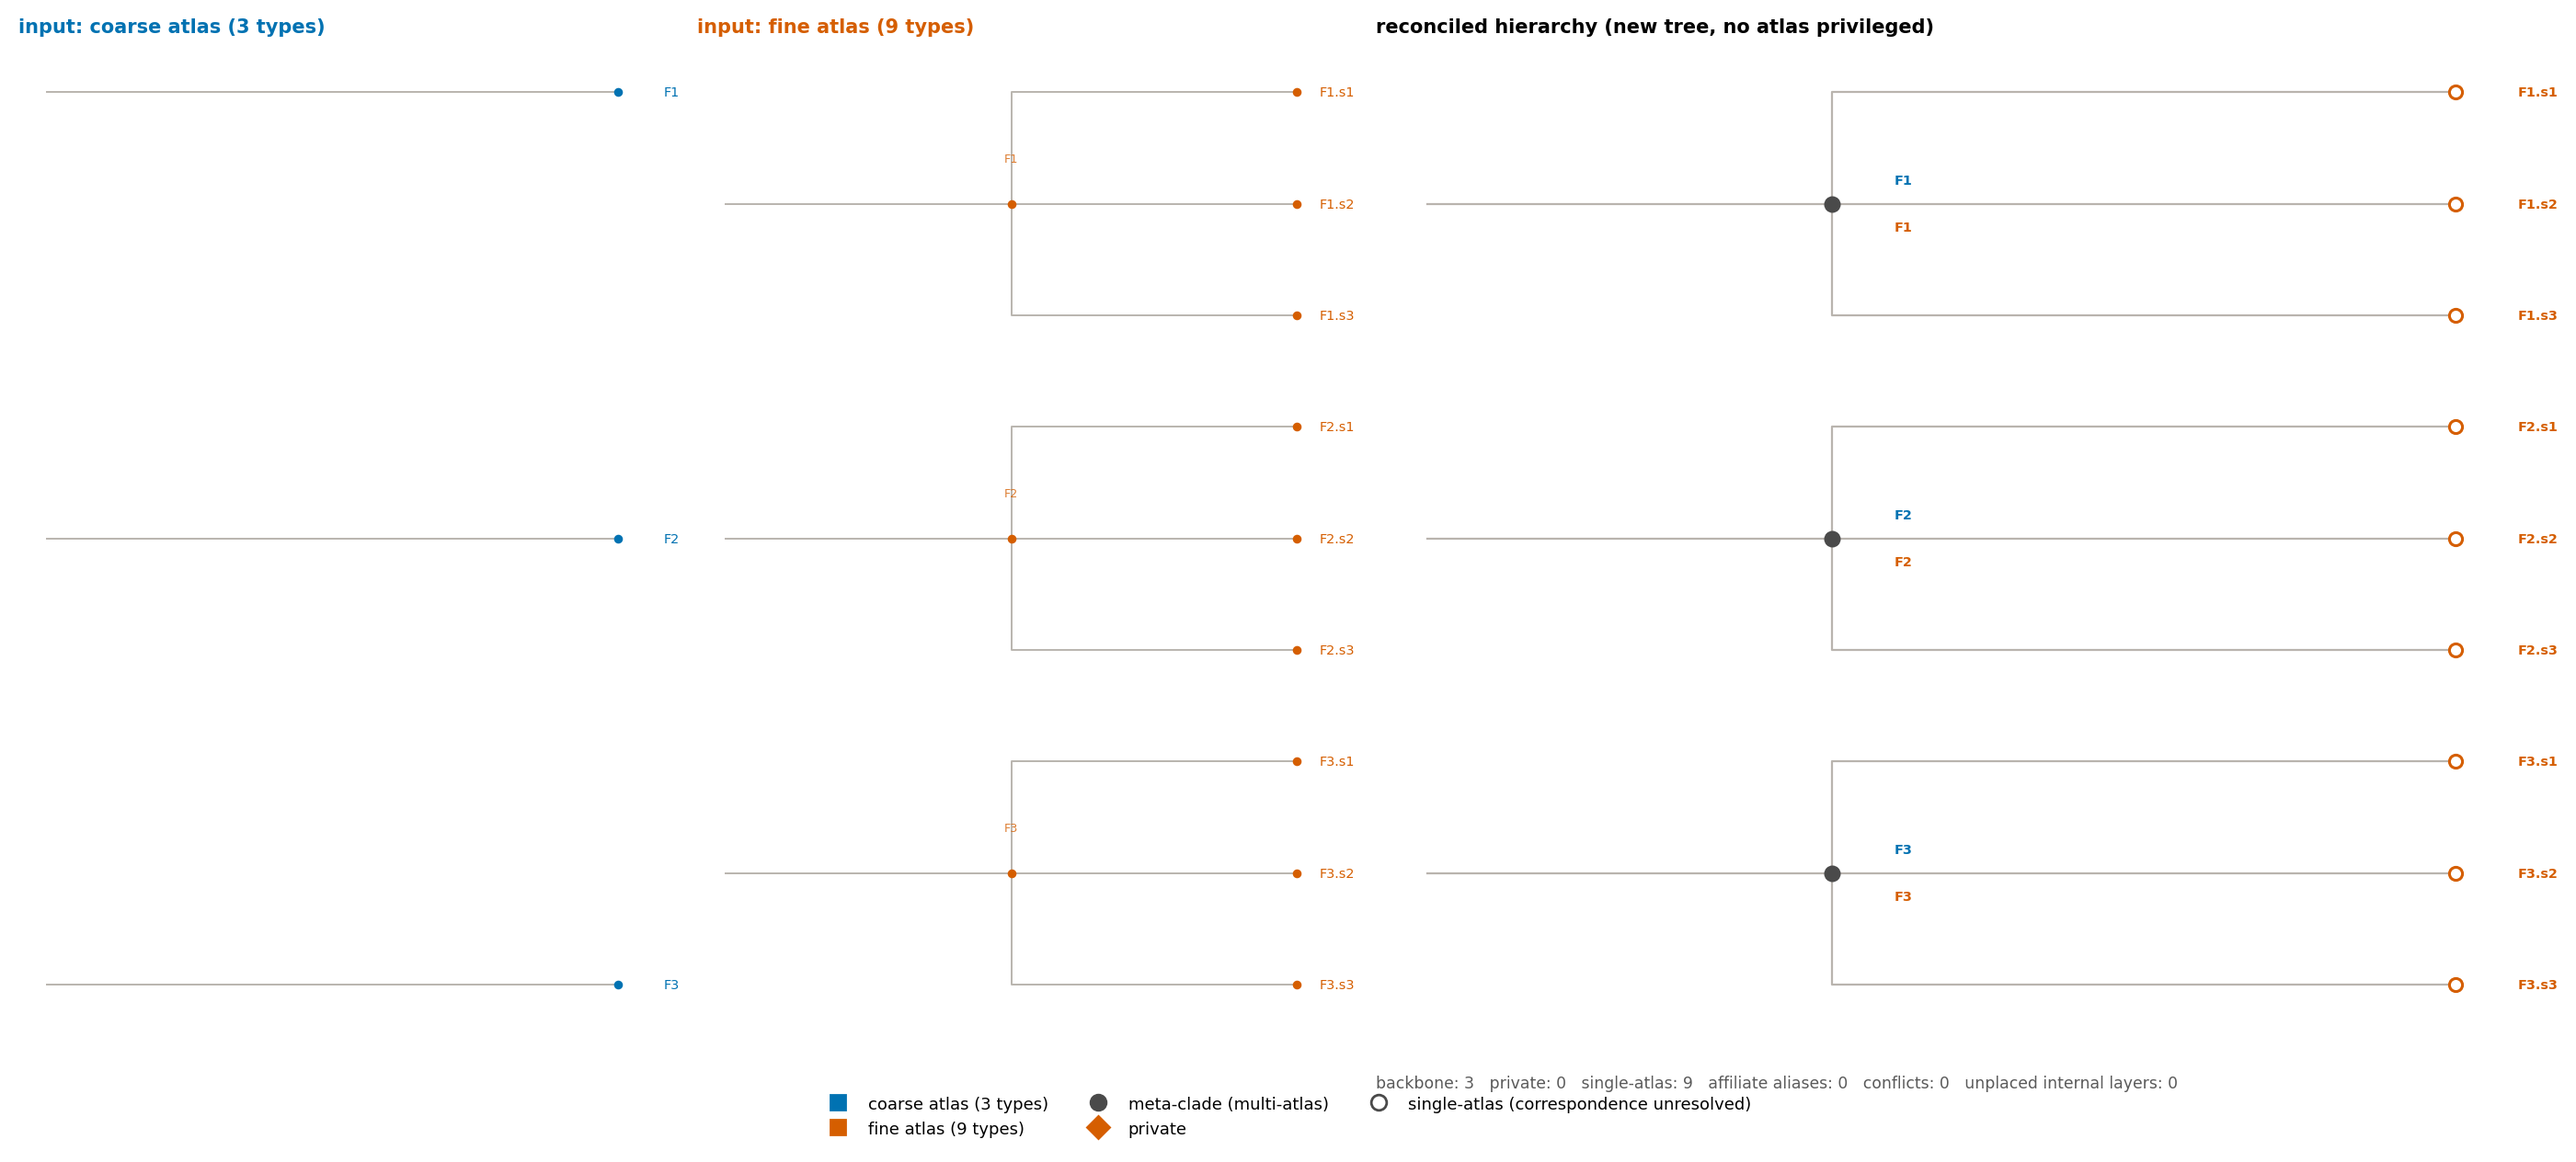
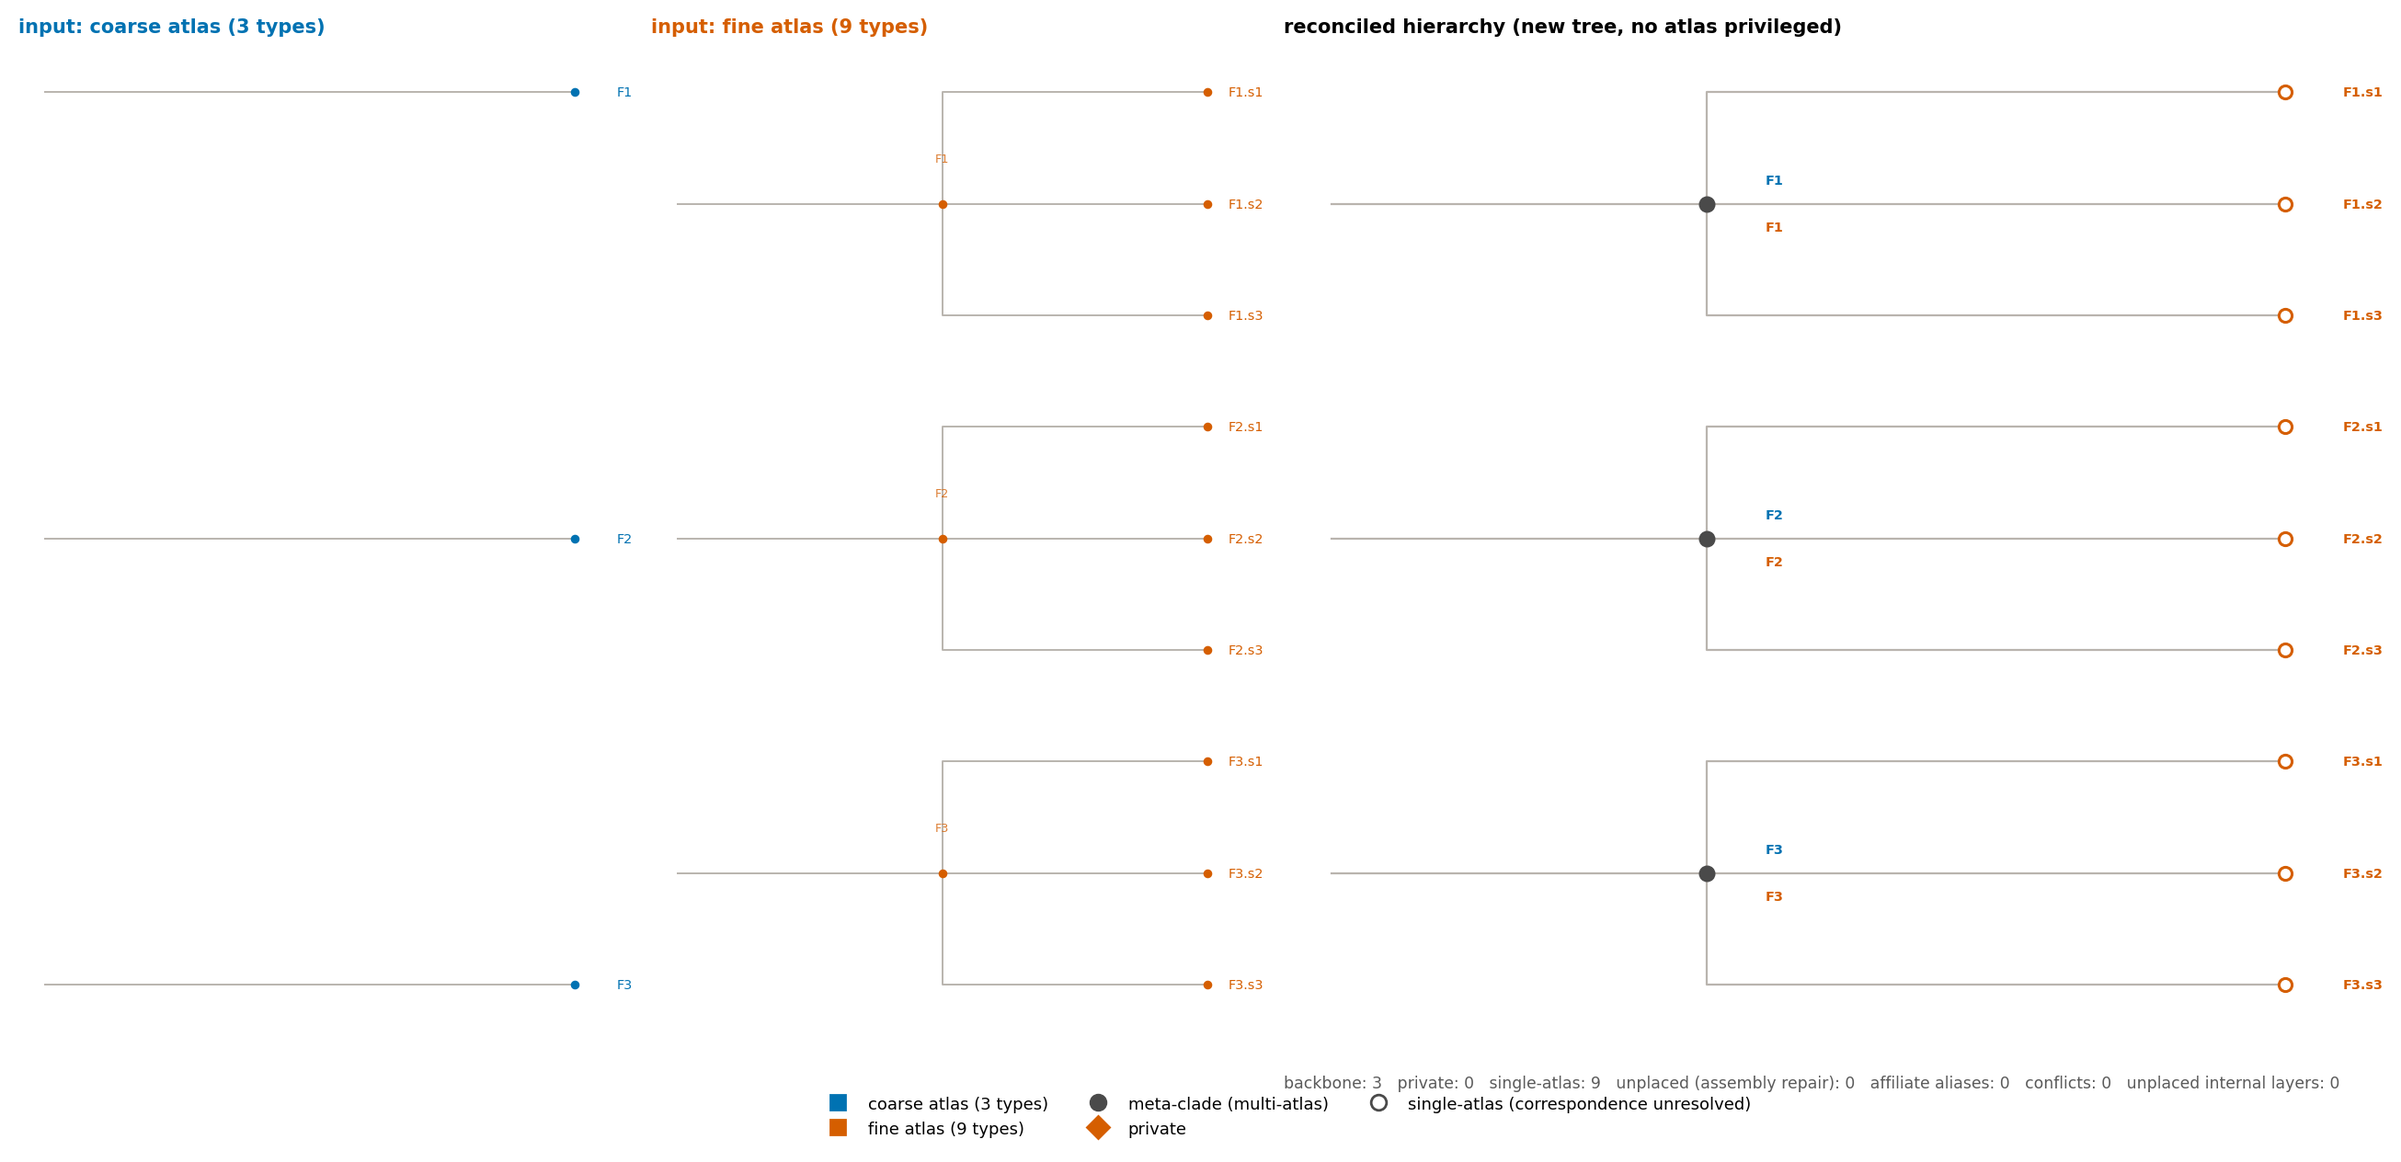
0.5.0: rejection routes the claim, never its labels (root-cause fix)
Root cause of the 13 missing amygdala labels (13/13 confirmed in
rejected candidates): greedy_backbone's rejected list was terminal for
the LABELS, not just the claims — members of candidates rejected as
insufficient_support / no_support / ancestry_incompatible re-entered
nothing and silently exited the pipeline.

route_rejected() in harmonize(): unrepresented members of rejected
candidates fall back to their own atlas as unplaced_single_atlas nodes
carrying the rejection reason verbatim plus candidate id as provenance
(ancestry_incompatible remains conflict evidence via the backbone's
conflict list; neither category is ever relabeled private); members
represented elsewhere are skipped (no duplicate placement); rejected
consolidated subtrees keep their original within-atlas topology.
repair_completeness stays as the permanent final tripwire and must now
report zero — a nonzero count is an undiagnosed loss pathway (runner
prints a loud warning).

Gates: 58 test executions green (incl. new routing tests: reason
provenance, duplicate prevention, subtree topology, tripwire-zero);
four-case visual gates 4/4; Allen truth case reproduces 73/25/4/1/0
exactly with 2 previously-dropped labels now surfaced as unplaced
(outside the scored set — the pathway existed in Allen too). Runner
emits rejected.json + per-label TRACE lines + rejection_reason in
provenance.csv.

diff --git a/pkgs/python/src/metaarbor/consensus/harmonize.py b/pkgs/python/src/metaarbor/consensus/harmonize.py
@@ -24,6 +24,75 @@ from .backbone import FROZEN, greedy_backbone
 from .candidates import candidate_groups, canonical_nodes, pairwise_decisions
 
 
+def route_rejected(nodes, trees, rejected, affiliates):
+    """Rejection routes the CLAIM, never its constituent labels.
+
+    A rejected candidate is a failed cross-atlas (or private) claim.
+    Its member labels fall back to their own atlases as explicit
+    `unplaced_single_atlas` nodes that carry the rejection reason
+    verbatim (`insufficient_support` / `no_support` /
+    `ancestry_incompatible`) and the candidate id as provenance —
+    `ancestry_incompatible` is additionally conflict evidence, already
+    recorded by the backbone in its conflict list. Neither category is
+    ever relabeled private. A member already represented elsewhere
+    (another accepted or unknown candidate, an expansion, an affiliate
+    alias) is skipped — no duplicate placement. A rejected consolidated
+    subtree surfaces with its original within-atlas topology preserved.
+
+    Returns the list of fallback placements performed.
+    """
+    from metaarbor.branch_fit import _collapse_chains
+    member_to_id = {}
+    for mid, nd in nodes.items():
+        for ds, m in nd["members"].items():
+            member_to_id.setdefault((ds, m), mid)
+    aff = {(a["dataset"], a["node"]) for a in affiliates}
+    routed, ucount = [], 0
+    for rej in rejected:
+        c = rej["candidate"]
+        reason = rej["reason"]
+        for ds, node in sorted(c["members"].items()):
+            if (ds, node) in member_to_id or (ds, node) in aff:
+                continue                  # represented elsewhere
+            rp, _ = _collapse_chains(trees[ds])
+            p, parent_id = rp.get(node), None
+            while p not in (None, "root"):
+                if (ds, p) in member_to_id:
+                    parent_id = member_to_id[(ds, p)]
+                    break
+                p = rp.get(p)
+            ucount += 1
+            uid = f"MA-X{ucount:04d}"
+            rec = {"reason": reason, "candidate_id": c["candidate_id"]}
+            sub = c.get("provenance", {}).get("subtree_nodes") or []
+            sub_un = sorted(x for x in set(sub) - {node}
+                            if (ds, x) not in member_to_id and
+                            (ds, x) not in aff)
+            idmap = {node: uid}
+            for k, x in enumerate(sub_un, 1):
+                idmap[x] = f"{uid}.{k:02d}"
+            for x, xid in idmap.items():
+                if x == node:
+                    px = parent_id
+                else:
+                    p2 = rp.get(x)
+                    while p2 not in (None, "root") and p2 not in idmap:
+                        p2 = rp.get(p2)
+                    px = idmap.get(p2, uid)
+                nodes[xid] = {"parent": px,
+                              "status": "unplaced_single_atlas",
+                              "members": {ds: x}, "aliases": [x],
+                              "display": _display([x]),
+                              "support": (0, 0), "subtree_parent": None,
+                              "rejection": dict(rec),
+                              **({"expanded": True} if x != node else {})}
+                member_to_id[(ds, x)] = xid
+                routed.append({"dataset": ds, "label": x,
+                               "node_id": xid, "reason": reason,
+                               "candidate_id": c["candidate_id"]})
+    return routed
+
+
 def repair_completeness(nodes, trees, affiliates):
     """COMPLETENESS INVARIANT (core contract, not a display repair):
     every input-tree leaf must occur in the assembly as a member, a
@@ -190,6 +259,10 @@ def harmonize(datasets, trees, n_hvg=1000, n_boot=200, base_seed=211,
             if uid:
                 expand(uid[0], ds, root_node, sub)
 
+    routed = route_rejected(nodes, trees, bb["rejected"],
+                            bb["affiliates"])
+    # final tripwire: after rejection routing this must find NOTHING;
+    # a nonzero repair count means a new, undiagnosed loss pathway
     repairs = repair_completeness(nodes, trees, bb["affiliates"])
 
     children = {i: [] for i in nodes}
@@ -206,7 +279,7 @@ def harmonize(datasets, trees, n_hvg=1000, n_boot=200, base_seed=211,
         nd["children"] = children[i]
 
     return {"tree": nodes, "roots": sorted(roots),
-            "repairs": repairs,
+            "rejection_fallbacks": routed, "repairs": repairs,
             "decisions": dec, "candidates": cands, "backbone": bb,
             "conflicts": bb["conflicts"], "affiliates": bb["affiliates"],
             # internal nodes whose descendants matched but which

diff --git a/pkgs/python/tests/test_harmonize.py b/pkgs/python/tests/test_harmonize.py
@@ -166,3 +166,87 @@ def test_repair_reinstates_lost_label_with_input_parentage(private_world):
         p = rp.get(p)
     else:
         assert nd["parent"] is None
+
+
+def _reject(members, reason, cid="cand:9999", sub=None):
+    c = {"members": members, "candidate_id": cid,
+         "provenance": ({"subtree_nodes": sub} if sub else {})}
+    return {"candidate": c, "reason": reason, "support": (0, 2)}
+
+
+def test_rejection_routes_labels_not_claims(private_world):
+    """A rejected claim's unrepresented members surface as
+    unplaced_single_atlas with the reason verbatim, under their own
+    atlas's nearest represented ancestor — never as private."""
+    import copy
+    from metaarbor.consensus.harmonize import (repair_completeness,
+                                               route_rejected)
+    harm, trees = private_world
+    nodes = copy.deepcopy(
+        {i: {k: v for k, v in nd.items() if k != "children"}
+         for i, nd in harm["tree"].items()})
+    # simulate the loss: delete the F2.s2 meta-clade and pretend the
+    # claim was rejected for insufficient support
+    doomed = [i for i, nd in nodes.items()
+              if nd["members"].get("B") == "B|F2.s2"]
+    for i in doomed:
+        for c in [j for j, nd in nodes.items() if nd["parent"] == i]:
+            nodes[c]["parent"] = nodes[i]["parent"]
+        del nodes[i]
+    rej = [_reject({"A": "A|F2.s2", "B": "B|F2.s2"},
+                   "insufficient_support")]
+    routed = route_rejected(nodes, trees, rej, harm["affiliates"])
+    assert sorted(r["label"] for r in routed) == ["A|F2.s2", "B|F2.s2"]
+    for r in routed:
+        nd = nodes[r["node_id"]]
+        assert nd["status"] == "unplaced_single_atlas"   # never private
+        assert nd["rejection"]["reason"] == "insufficient_support"
+        assert nd["rejection"]["candidate_id"] == "cand:9999"
+        assert nd["support"] == (0, 0)
+    # tripwire now finds NOTHING: the source fix precedes it
+    assert repair_completeness(nodes, trees, harm["affiliates"]) == []
+
+
+def test_rejection_no_duplicate_when_represented_elsewhere(private_world):
+    import copy
+    from metaarbor.consensus.harmonize import route_rejected
+    harm, trees = private_world
+    nodes = copy.deepcopy(
+        {i: {k: v for k, v in nd.items() if k != "children"}
+         for i, nd in harm["tree"].items()})
+    n0 = len(nodes)
+    # both members still represented by the accepted assembly: routing
+    # a rejected duplicate claim must place nothing
+    rej = [_reject({"A": "A|F1.s1", "B": "B|F1.s1"},
+                   "ancestry_incompatible")]
+    routed = route_rejected(nodes, trees, rej, harm["affiliates"])
+    assert routed == [] and len(nodes) == n0
+
+
+def test_rejected_subtree_preserves_topology(private_world):
+    """A rejected consolidated subtree (singleton no_support) surfaces
+    with its original within-atlas topology beneath the fallback."""
+    import copy
+    from metaarbor.consensus.harmonize import route_rejected
+    harm, trees = private_world
+    nodes = copy.deepcopy(
+        {i: {k: v for k, v in nd.items() if k != "children"}
+         for i, nd in harm["tree"].items()})
+    # delete B's entire F3 private branch, then reject it as a
+    # no_support private-subtree claim
+    doomed = [i for i, nd in nodes.items()
+              if (nd["members"].get("B") or "").find("F3") >= 0]
+    for i in doomed:
+        del nodes[i]
+    rej = [_reject({"B": "family:B|F3"}, "no_support",
+                   sub=["family:B|F3", "B|F3.s1", "B|F3.s2"])]
+    routed = route_rejected(nodes, trees, rej, harm["affiliates"])
+    assert sorted(r["label"] for r in routed) == \
+        ["B|F3.s1", "B|F3.s2", "family:B|F3"]
+    root_id = next(r["node_id"] for r in routed
+                   if r["label"] == "family:B|F3")
+    kids = {r["label"]: nodes[r["node_id"]]["parent"] for r in routed
+            if r["label"] != "family:B|F3"}
+    assert kids == {"B|F3.s1": root_id, "B|F3.s2": root_id}
+    assert all(nodes[r["node_id"]]["status"] == "unplaced_single_atlas"
+               for r in routed)

diff --git a/pkgs/python/examples/harmonize_k3.py b/pkgs/python/examples/harmonize_k3.py
@@ -112,6 +112,7 @@ def main(manifest_path):
         for leaf in trees[key]["leaves"]:
             how, mid = placed.get(leaf, ("absent", None))
             nd = nodes.get(mid, {})
+            rej = nd.get("rejection") or {}
             rows.append({
                 "atlas": key,
                 "label": leaf.split("|", 1)[-1],
@@ -123,6 +124,8 @@ def main(manifest_path):
                 "co_members": "; ".join(
                     v for k2, v in nd.get("members", {}).items()
                     if k2 != key),
+                "rejection_reason": rej.get("reason", ""),
+                "rejected_candidate": rej.get("candidate_id", ""),
             })
     with open(os.path.join(out, "provenance.csv"), "w", newline="") as fh:
         w = csv.DictWriter(fh, fieldnames=list(rows[0]))
@@ -189,10 +192,27 @@ def main(manifest_path):
                        zip(*np.unique(datasets[k]["labels"],
                                       return_counts=True))}
                    for k in datasets}, fh)
+    # ---- rejection trace: the previously-missing labels and WHY ----------
+    with open(os.path.join(out, "rejected.json"), "w") as fh:
+        json.dump([{"candidate_id": r["candidate"]["candidate_id"],
+                    "members": r["candidate"]["members"],
+                    "reason": r["reason"],
+                    "support": list(r["support"])}
+                   for r in harm["backbone"]["rejected"]], fh, indent=1)
+    if harm["rejection_fallbacks"]:
+        from collections import Counter
+        byr = Counter(r["reason"] for r in harm["rejection_fallbacks"])
+        print(f"REJECTION FALLBACKS: {len(harm['rejection_fallbacks'])} "
+              f"labels routed to unplaced_single_atlas "
+              f"({dict(byr)}) — full trace in rejected.json + "
+              "provenance.csv rejection_reason column")
+        for r in harm["rejection_fallbacks"]:
+            print(f"  TRACE {r['dataset']}|{r['label'].split('|')[-1]} "
+                  f"<- {r['reason']} ({r['candidate_id']})")
     if harm["repairs"]:
-        print(f"ASSEMBLY REPAIRS: {len(harm['repairs'])} labels "
-              "reinstated as unplaced_single_atlas (upstream loss — "
-              "flagged, excluded from support counts)")
+        print(f"WARNING - TRIPWIRE: {len(harm['repairs'])} labels "
+              "reinstated by the completeness repair AFTER rejection "
+              "routing — an undiagnosed loss pathway; report this")
 
     # ---- tree + figure ---------------------------------------------------
     with open(os.path.join(out, "tree.json"), "w") as fh:

diff --git a/pkgs/python/src/metaarbor/__init__.py b/pkgs/python/src/metaarbor/__init__.py
@@ -41,7 +41,7 @@ from .walk import baseline_map, compactness, select_node
 from .consensus.harmonize import harmonize
 from .consensus.plot_reconciled import plot_reconciled_tree
 
-__version__ = "0.4.1"
+__version__ = "0.5.0"
 
 __all__ = [
     "measure", "vote_cache", "aggregate_cache", "leaf_costs", "auroc",
